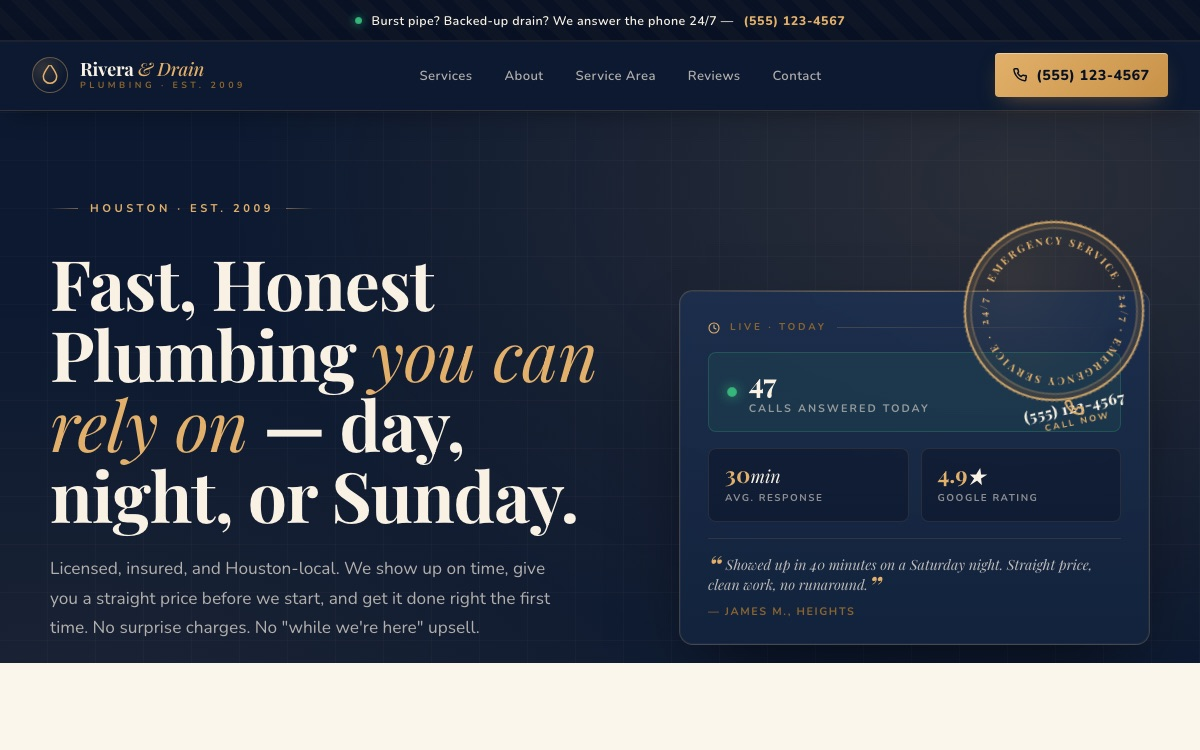
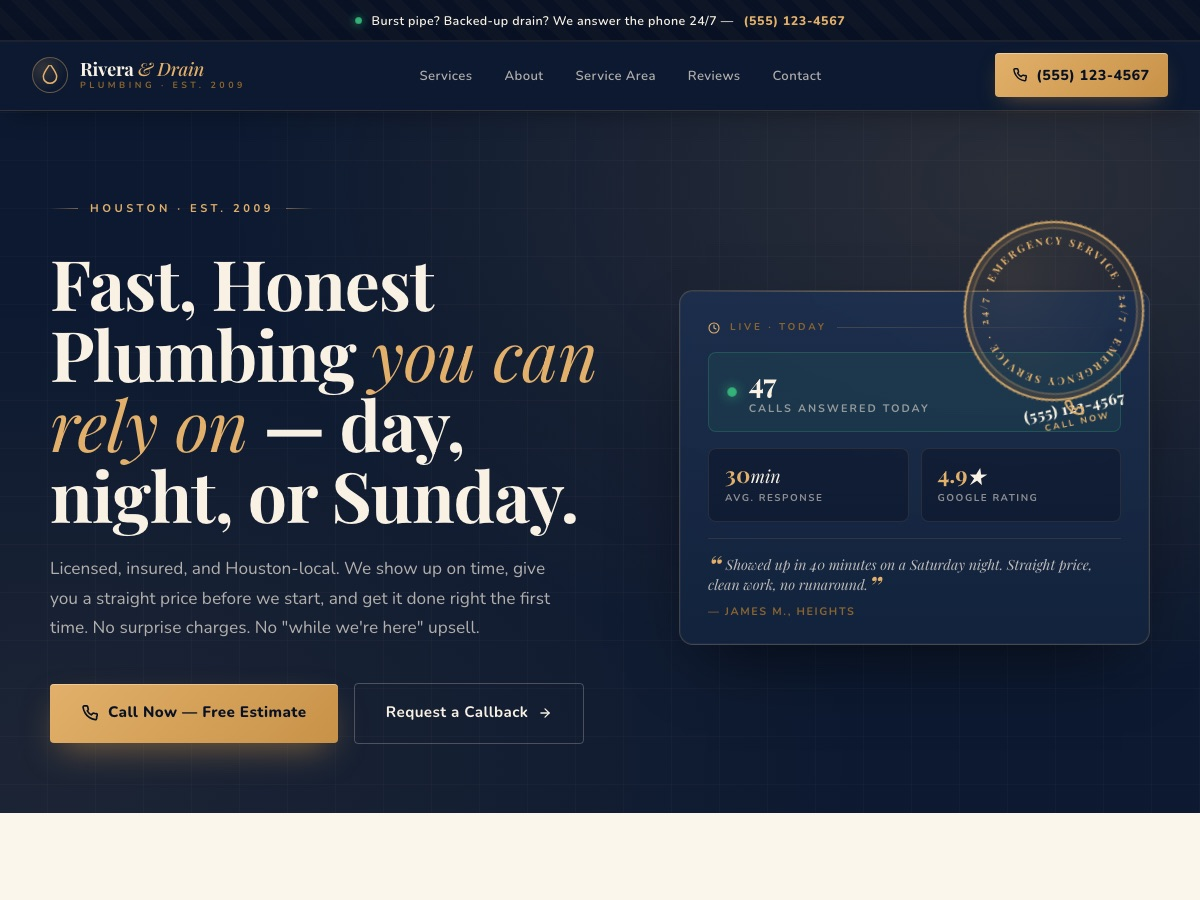
Fix Rivera featured-thumbnail cropping by recapturing at 4:3
The portfolio featured card (4-col x 2-row) is closer to a 1.33:1
aspect than the other regular cards. The old 1200x750 screenshot
(1.6:1) was being scaled up and cropped hard inside the featured
slot, zooming in on the hero text. Re-captured at 1200x900 (1.33:1)
so the image now fills the featured frame with minimal cropping
and the full hero -- including the emergency stamp crest, live
'calls answered today' ticker, and primary CTAs -- is visible.

diff --git a/index.html b/index.html
@@ -916,7 +916,7 @@ footer .foot-logo em{font-family:"Instrument Serif",serif;font-style:italic;font
       <!-- FEATURED: Plumbing -->
       <a class="port-card port-featured reveal" href="sites/plumber-landing.html" target="_blank" rel="noopener">
         <div class="port-thumb">
-          <img src="sites/thumbnails/plumber-landing.jpg" alt="Rivera Plumbing &amp; Drain website preview" loading="lazy" width="1200" height="750"/>
+          <img src="sites/thumbnails/plumber-landing.jpg" alt="Rivera Plumbing &amp; Drain website preview" loading="lazy" width="1200" height="900"/>
           <div class="port-thumb-overlay"><span class="port-overlay-btn">Visit Live Site &rarr;</span></div>
         </div>
         <div class="port-info">
